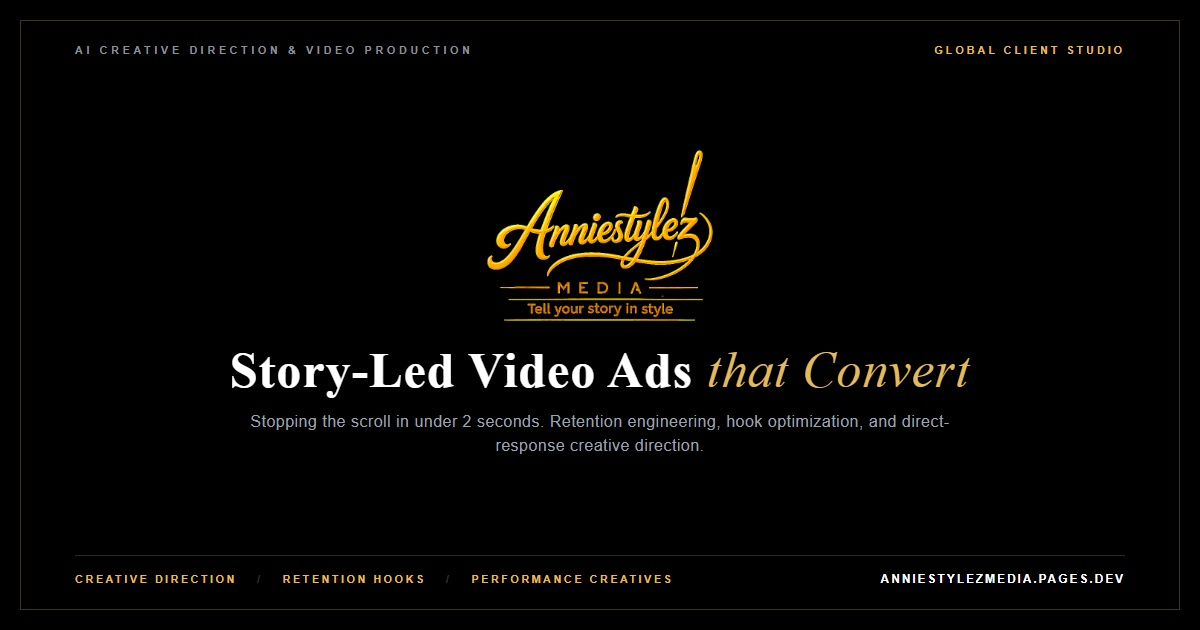
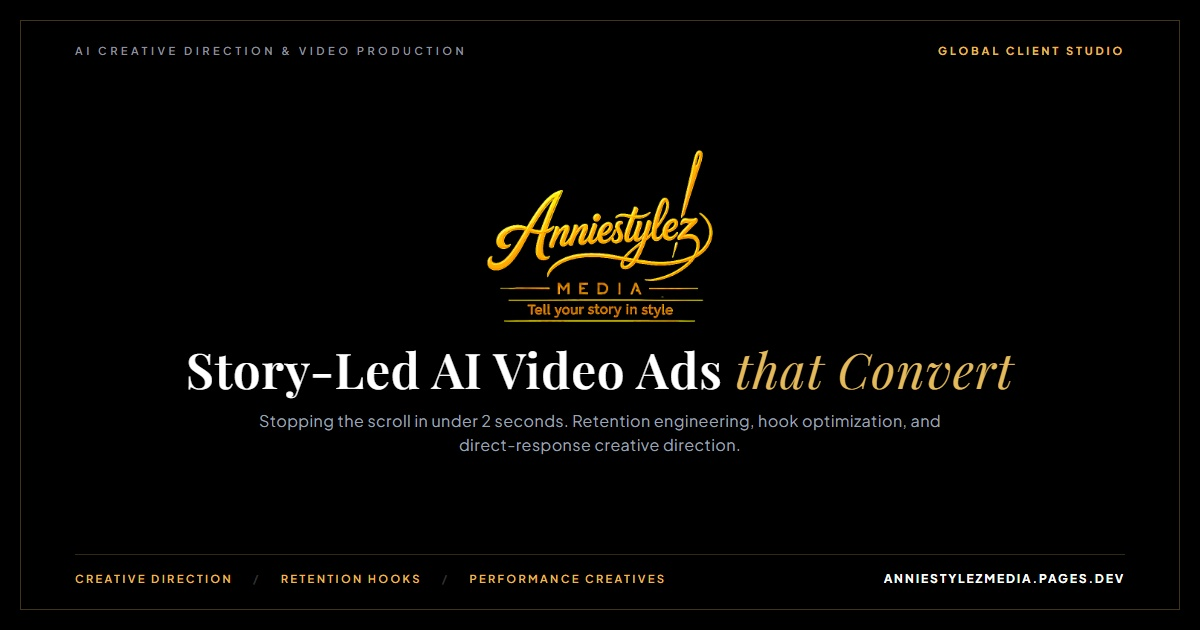
Update headline to Story-Led AI Video Ads that Convert

diff --git a/index.html b/index.html
@@ -3,21 +3,21 @@
 <head>
 <meta charset="utf-8">
 <meta name="viewport" content="width=device-width,initial-scale=1">
-<title>Anniestylez Media: Story-Led AI Video Ads</title>
+<title>Anniestylez Media: Story-Led AI Video Ads that Convert</title>
 <meta name="description" content="Direct-response AI video ads, retention hooks, and creative direction for high-growth brands.">
 <meta property="og:type" content="website">
 <meta property="og:url" content="https://anniestylezmedia.pages.dev/">
-<meta property="og:title" content="Anniestylez Media: Story-Led AI Video Ads">
+<meta property="og:title" content="Anniestylez Media: Story-Led AI Video Ads that Convert">
 <meta property="og:description" content="Direct-response AI video ads, retention hooks, and creative direction for high-growth brands.">
-<meta property="og:image" content="https://anniestylezmedia.pages.dev/og_preview.jpg?v=20261021">
-<meta property="og:image:secure_url" content="https://anniestylezmedia.pages.dev/og_preview.jpg?v=20261021">
+<meta property="og:image" content="https://anniestylezmedia.pages.dev/og_preview.jpg?v=20261021b">
+<meta property="og:image:secure_url" content="https://anniestylezmedia.pages.dev/og_preview.jpg?v=20261021b">
 <meta property="og:image:type" content="image/jpeg">
 <meta property="og:image:width" content="1200">
 <meta property="og:image:height" content="630">
 <meta name="twitter:card" content="summary_large_image">
-<meta name="twitter:title" content="Anniestylez Media: Story-Led AI Video Ads">
+<meta name="twitter:title" content="Anniestylez Media: Story-Led AI Video Ads that Convert">
 <meta name="twitter:description" content="Direct-response AI video ads, retention hooks, and creative direction for high-growth brands.">
-<meta name="twitter:image" content="https://anniestylezmedia.pages.dev/og_preview.jpg?v=20261021">
+<meta name="twitter:image" content="https://anniestylezmedia.pages.dev/og_preview.jpg?v=20261021b">
 <style>
 @import url('https://fonts.googleapis.com/css2?family=DM+Sans:ital,opsz,wght@0,9..40,300..800;1,9..40,300..800&family=Playfair+Display:ital,wght@0,500;0,600;0,700;1,400;1,600;1,700&family=Plus+Jakarta+Sans:wght@300;400;500;600;700;800&family=Sora:wght@400;600;700;800&family=JetBrains+Mono:wght@400;500;600&display=swap');
 
